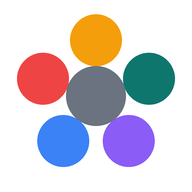
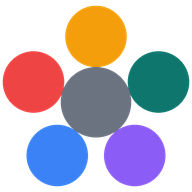
Grow Panel v1.96: icono sin fondo, como el de Amable Life
- icono-gp-192/512/180.png: los seis círculos, fondo transparente y más grandes
- manifest sin los iconos maskable (Chrome en Windows los usaba con fondo)
- icono.svg y los icono-*.png de siempre, también sin el cuadrado blanco

Changed region(s): [[0.0, 0.25, 1.0, 1.0], [0.3125, 0.0312, 0.6875, 0.3125], [0.4062, 0.3125, 0.5938, 0.375]]

diff --git a/sw.js b/sw.js
@@ -1,7 +1,7 @@
 // Service worker de Grow Panel: permite instalarlo y abrirlo sin conexión (datos siempre frescos si hay red)
-const CACHE = "growpanel-v1.95";
+const CACHE = "growpanel-v1.96";
 const BASE = ["./", "./index.html", "./grow-panel.js", "./manifest.json", "./logo.svg", "./logo-oscuro.svg",
-  "./icono.svg", "./icono-192.png", "./icono-512.png", "./icono-32.png", "./icono-180.png"];
+  "./icono.svg", "./icono-192.png", "./icono-512.png", "./icono-32.png", "./icono-180.png", "./icono-gp-192.png", "./icono-gp-512.png", "./icono-gp-180.png"];
 // cache:"reload": la copia sin conexión se baja del servidor, nunca de la caché del navegador
 self.addEventListener("install", e => e.waitUntil(caches.open(CACHE)
   .then(c => c.addAll(BASE.map(u => new Request(u, { cache: "reload" })))).then(() => self.skipWaiting())));

diff --git a/index.html b/index.html
@@ -8,7 +8,7 @@
 <meta name="theme-color" content="#f59e0b">
 <link rel="icon" type="image/png" sizes="32x32" href="icono-32.png">
 <link rel="icon" type="image/svg+xml" href="icono.svg">
-<link rel="apple-touch-icon" href="icono-180.png">
+<link rel="apple-touch-icon" href="icono-gp-180.png">
 <link rel="manifest" href="manifest.json">
 <link rel="preconnect" href="https://fonts.googleapis.com"><link rel="preconnect" href="https://fonts.gstatic.com" crossorigin>
 <link rel="stylesheet" href="https://fonts.googleapis.com/css2?family=Dancing+Script:wght@600;700&display=swap">

diff --git a/grow-panel.js b/grow-panel.js
@@ -16,7 +16,7 @@
    ↑ ↓ del teclado) se cambia el orden. Se guarda en este navegador (localStorage «growpanel.orden»).
 */
 (() => {
-  const VERSION = 'v1.95';
+  const VERSION = 'v1.96';
   const BASE = new URL('.', document.currentScript ? document.currentScript.src : location.href).href;
   const ESTADOS = {
     ok: 'Todo bien', aviso: 'Con avisos', error: 'Con errores', pausa: 'En pausa', mudo: 'Sin noticias'
